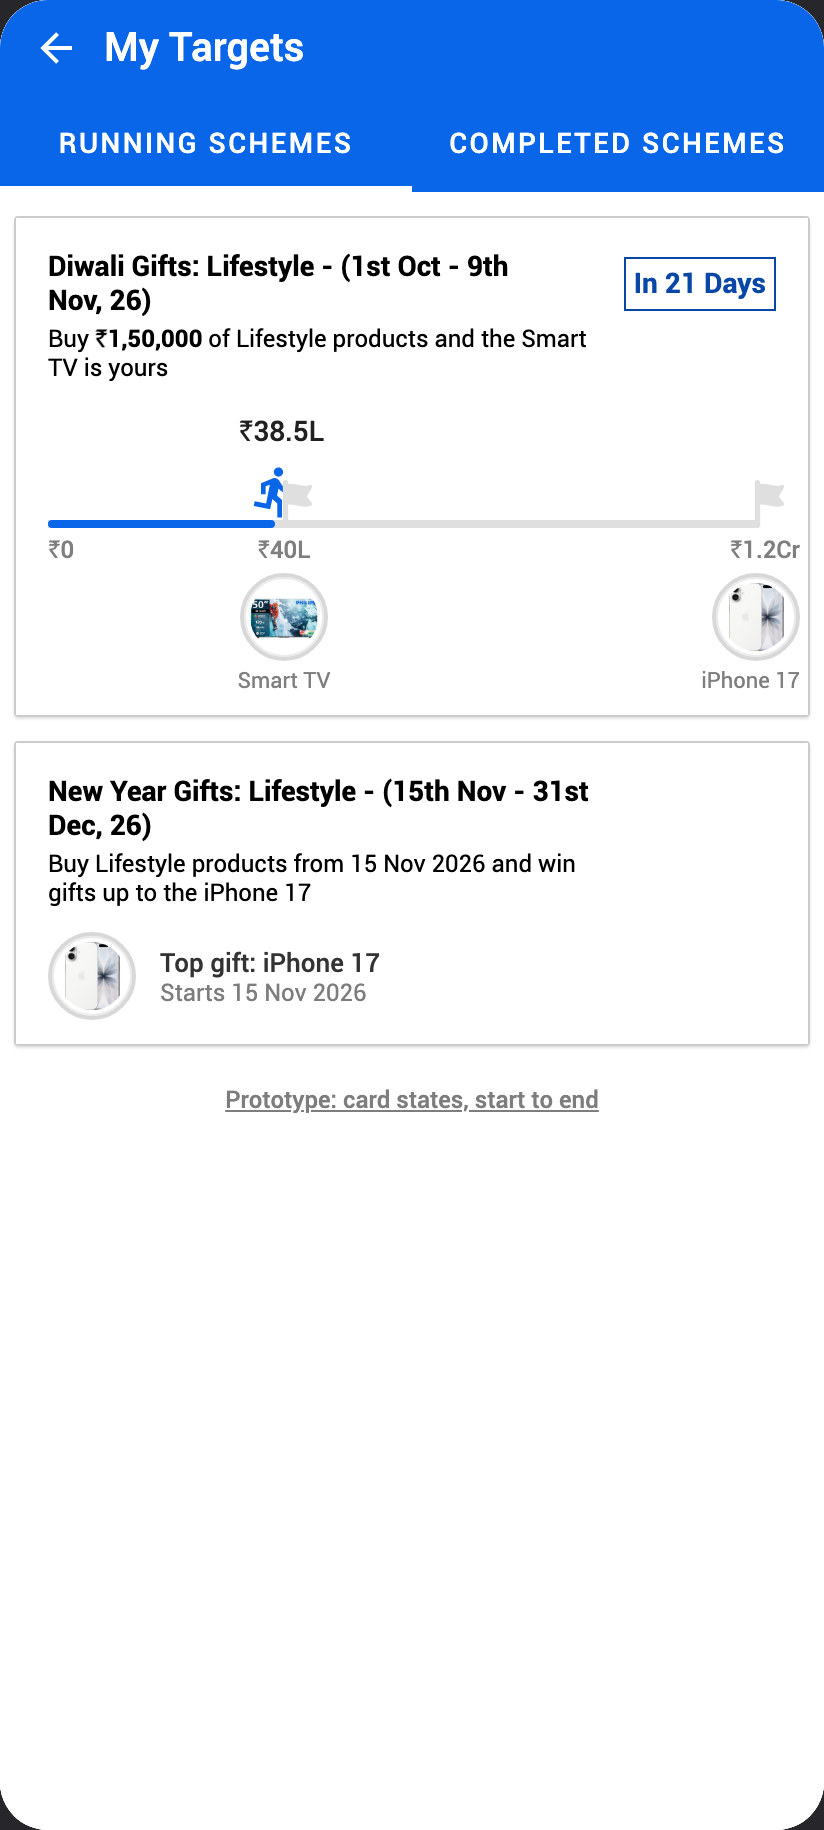
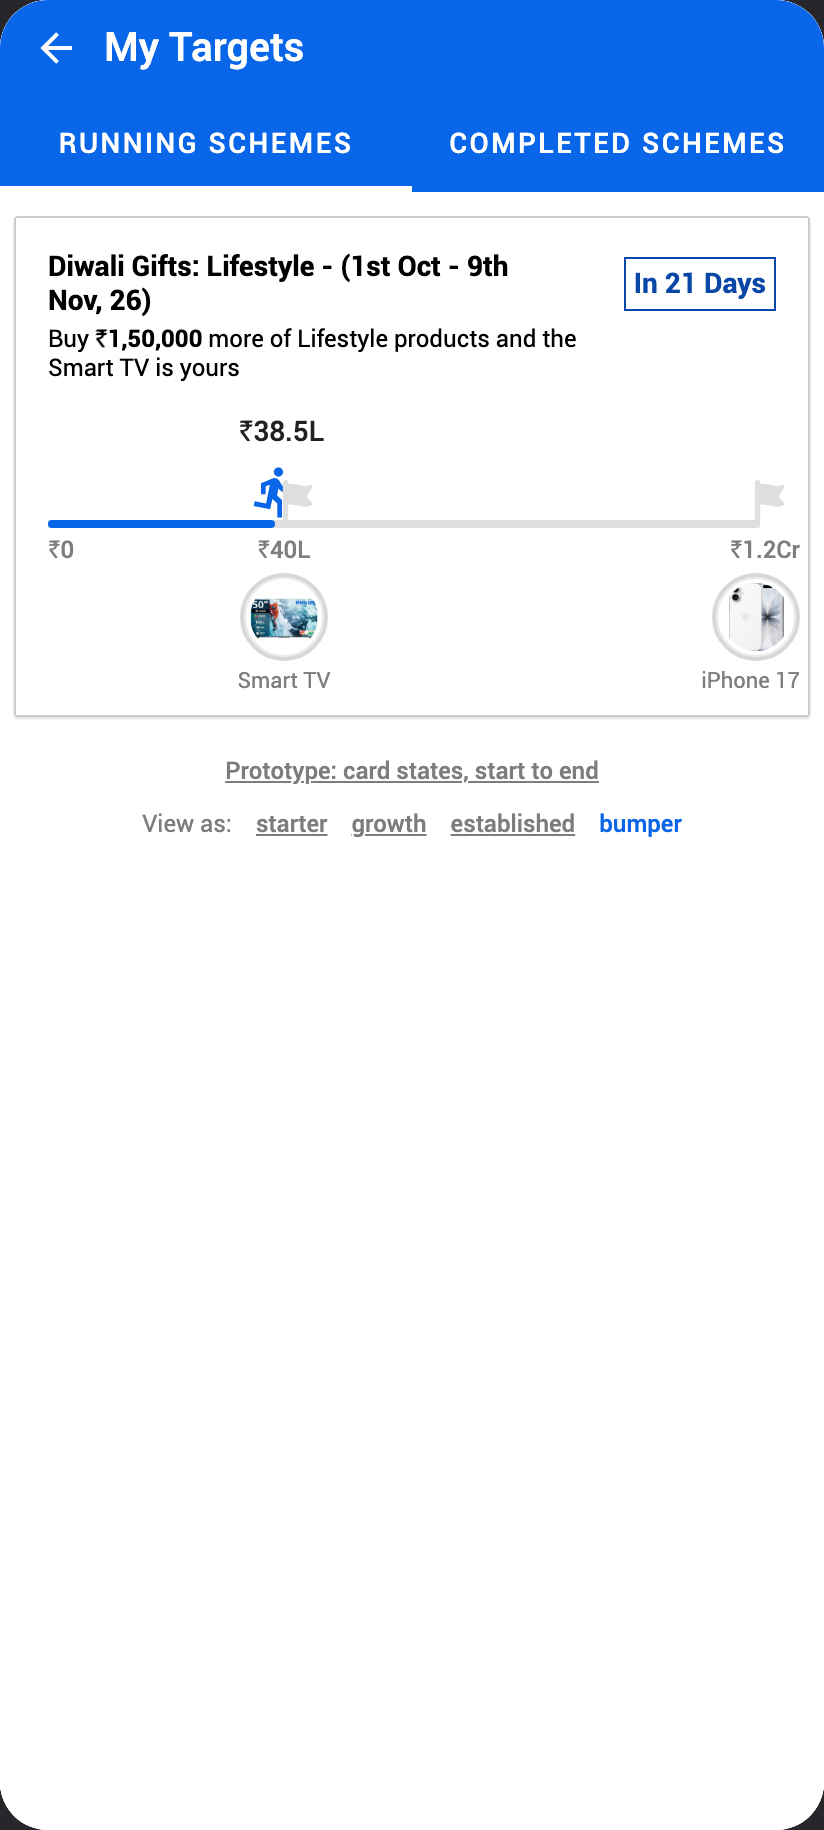
State and copy review pass; clean running lists; cohort switcher
- Reviewed all 13 gallery states and all cohort detail pages string by
  string; gallery captions now describe the single-badge design and the
  no-photo stress case uses the Bosch fridge (the kettle gained a photo)
- LIVE copy says "more" only when buying already counts toward the scheme
- The running tab holds only the running scheme: the SCHEDULED card moved
  to the states gallery, per review
- Demo chrome: "View as" cohort switcher in the prototype footer, and the
  states gallery joins the drawer

diff --git a/app/ship/states.js b/app/ship/states.js
@@ -13,7 +13,7 @@ import { giftSchemeNode, LADDERS } from '../../src/gifts/data';
 
 const L = 100000;
 const LIFESTYLE = LADDERS[0];
-const APPL = { key: 'lifestyle', label: 'Appliances', tiers: LIFESTYLE.tiers };
+const LIFE = { key: 'lifestyle', label: 'Lifestyle', tiers: LIFESTYLE.tiers };
 // The electronics ladder holds tiers without photos (kettle, watch, microwave).
 const ELEC = { key: 'electronics', label: 'Electronics', tiers: LADDERS[1].tiers };
 
@@ -22,7 +22,7 @@ const base = (id, currentValue, extra = {}) =>
     id,
     name: 'Diwali Gifts',
     windowLabel: '1st Oct - 9th Nov, 26',
-    ladder: APPL,
+    ladder: LIFE,
     slabsInLakhs: [2, 5, 10],
     currentValue,
     ...extra,
@@ -33,15 +33,15 @@ const CASES = [
     node: base('SS-SCHEDULED', 0, { now: Date.UTC(2026, 8, 20) }) },
   { caption: 'LIVE. Window open, nothing crossed. The value pill is hidden at zero.',
     node: base('SS-LIVE', 0) },
-  { caption: 'EARNED. One slab crossed: check badge on the Mixer, the rest stay locked.',
+  { caption: 'EARNED. First slab crossed: green check on the Mixer, the rest stay open.',
     node: base('SS-EARNED', 2.9 * L) },
-  { caption: 'EARNED, second slab. Two checks; the sentence sells the Soundbar.',
+  { caption: 'EARNED, second slab. One green check on the Air Fryer; the passed Mixer dims with no badge.',
     node: base('SS-EARNED2', 6.4 * L) },
   { caption: 'NEAR SLAB. Gap 20% or less of the step: the sentence turns red, the chip stays calm.',
     node: base('SS-NEAR', 9.4 * L) },
   { caption: 'EXPIRING. Three days or fewer: the chip turns red.',
     node: base('SS-EXPIRING', 6.4 * L, { now: Date.UTC(2026, 10, 7) }) },
-  { caption: 'TOP REACHED. All three checked; the man stands at the end.',
+  { caption: 'TOP REACHED. The Soundbar carries the one green check; the passed gifts dim.',
     node: base('SS-TOP', 10.5 * L) },
   { caption: 'ENDED PENDING. Closed with a slab crossed; the outcome replaces the meter.',
     node: base('SS-PENDING', 6.4 * L, { now: Date.UTC(2026, 10, 12) }) },
@@ -52,9 +52,9 @@ const CASES = [
   { caption: 'ENDED MISSED. Closed below the first slab. Terminal.',
     node: base('SS-MISSED', 0.8 * L, { now: Date.UTC(2026, 10, 12) }) },
   { caption: 'STRESS: crowded slabs (10L/15L/20L). Medallions push apart instead of overlapping.',
-    node: giftSchemeNode({ id: 'SS-CROWD', name: 'Diwali Bumper', windowLabel: '1st Oct - 9th Nov, 26', ladder: APPL, slabsInLakhs: [10, 15, 20], currentValue: 11.2 * L }) },
-  { caption: 'STRESS: a gift with no photo (kettle) falls back to its line glyph.',
-    node: giftSchemeNode({ id: 'SS-NOPHOTO', name: 'Diwali Gifts', windowLabel: '1st Oct - 9th Nov, 26', ladder: ELEC, slabsInLakhs: [1, 5, 10], currentValue: 2.2 * L }) },
+    node: giftSchemeNode({ id: 'SS-CROWD', name: 'Diwali Bumper', windowLabel: '1st Oct - 9th Nov, 26', ladder: LIFE, slabsInLakhs: [10, 15, 20], currentValue: 11.2 * L }) },
+  { caption: 'STRESS: a gift with no verified photo (the Bosch fridge) falls back to its line glyph.',
+    node: giftSchemeNode({ id: 'SS-NOPHOTO', name: 'Diwali Gifts', windowLabel: '1st Oct - 9th Nov, 26', ladder: ELEC, slabsInLakhs: [20, 30, 40], currentValue: 22 * L }) },
 ];
 
 export default function ShipCardStates() {

diff --git a/app/ship/index.js b/app/ship/index.js
@@ -53,9 +53,25 @@ export default function ShipTargets() {
           )}
           ListFooterComponent={
             withStatesLink ? (
-              <Pressable style={styles.protoLink} onPress={() => router.push('/ship/states')}>
-                <Text style={styles.protoText} allowFontScaling={false}>Prototype: card states, start to end</Text>
-              </Pressable>
+              <>
+                <Pressable style={styles.protoLink} onPress={() => router.push('/ship/states')}>
+                  <Text style={styles.protoText} allowFontScaling={false}>Prototype: card states, start to end</Text>
+                </Pressable>
+                {/* Demo chrome only: switch whose view renders. Never ships. */}
+                <View style={styles.cohortRow}>
+                  <Text style={styles.cohortLabel} allowFontScaling={false}>View as:</Text>
+                  {Object.keys(SHIP_COHORTS).map((k) => (
+                    <Pressable key={k} hitSlop={8} onPress={() => router.replace(`/ship?cohort=${k}`)}>
+                      <Text
+                        style={[styles.cohortText, k === cohort && styles.cohortActive]}
+                        allowFontScaling={false}
+                      >
+                        {k}
+                      </Text>
+                    </Pressable>
+                  ))}
+                </View>
+              </>
             ) : null
           }
         />
@@ -98,4 +114,8 @@ const styles = StyleSheet.create({
   list: { paddingHorizontal: D.listPaddingH, paddingTop: D.cardGap, paddingBottom: D.cardGap },
   protoLink: { marginTop: 20, alignItems: 'center' },
   protoText: { fontFamily: F.medium, fontSize: 12, lineHeight: 14.4, color: C.mediumGrey, textDecorationLine: 'underline' },
+  cohortRow: { flexDirection: 'row', justifyContent: 'center', alignItems: 'center', marginTop: 12, gap: 12 },
+  cohortLabel: { fontFamily: F.regular, fontSize: 12, lineHeight: 14.4, color: C.mediumGrey },
+  cohortText: { fontFamily: F.medium, fontSize: 12, lineHeight: 14.4, color: C.mediumGrey, textDecorationLine: 'underline' },
+  cohortActive: { color: SOLV.blue, textDecorationLine: 'none' },
 });

diff --git a/src/ship/data.js b/src/ship/data.js
@@ -12,10 +12,11 @@
 // slab-to-gift pricing is the sheet's, never invented here. Starter takes the
 // Electronics ladder's low end; the other three are consecutive windows of the
 // Lifestyle ladder up to the iPhone 17 (a 2-gift ladder, which the layout allows).
-// Every cohort carries the same journey: one running Diwali scheme, the announced New
-// Year scheme, and a history of one won-and-ordered plus one missed scheme. The
-// running states differ on purpose, so the four views also demo LIVE, EARNED and
-// NEAR_SLAB without inventing extra schemes.
+// Every cohort carries the same journey: ONE running Diwali scheme and a history of
+// one won-and-ordered plus one missed scheme. The running tab stays clean: a not-yet
+// started scheme never sits on it (the SCHEDULED card lives in the states gallery).
+// The running states differ across cohorts on purpose, so the four views also demo
+// LIVE and EARNED without inventing extra schemes.
 import { giftSchemeNode, LADDERS, NOW } from '../gifts/data';
 import { C } from '../theme';
 import { SOLV } from '../gifts/solv';
@@ -60,17 +61,6 @@ function cohortJourney({ key, ladder, slabs, running, onam, summer, included, ex
         name: 'Diwali Gifts',
         windowLabel: '1st Oct - 9th Nov, 26',
         currentValue: running,
-      }),
-      scheme({
-        ...shared,
-        id: `SHIP-${key}-NEWYEAR`,
-        name: 'New Year Gifts',
-        windowLabel: '15th Nov - 31st Dec, 26',
-        currentValue: 0,
-        startTime: Date.UTC(2026, 10, 15),
-        endTime: Date.UTC(2026, 11, 31),
-        startLabel: '15 Nov 2026',
-        endLabel: '31 Dec 2026',
       }),
     ],
     completed: [

diff --git a/src/gifts/data.js b/src/gifts/data.js
@@ -140,7 +140,8 @@ function copyFor(s, ladder) {
     case STATE.SCHEDULED:
       return `Buy ${scope} from ${s.startLabel} and win gifts up to the ${s.top.shortName}`;
     case STATE.LIVE:
-      return `Buy <b>${indianPrice(s.remaining)}</b> of ${scope} and the ${s.next.shortName} is yours`;
+      // "more" only once some buying already counts toward the scheme.
+      return `Buy <b>${indianPrice(s.remaining)}</b>${s.currentValue > 0 ? ' more' : ''} of ${scope} and the ${s.next.shortName} is yours`;
     case STATE.NEAR_SLAB:
       return `Only <b>${indianPrice(s.remaining)}</b> more for the ${s.next.shortName}`;
     case STATE.EARNED:

diff --git a/app/index.js b/app/index.js
@@ -52,6 +52,7 @@ const GIFT_FLOWS = [
   ['SHIP view: Growth cohort, ₹2L to ₹10L', '/ship?cohort=growth'],
   ['SHIP view: Established cohort, ₹15L to ₹30L', '/ship?cohort=established'],
   ['SHIP view: Bumper cohort, ₹40L to ₹1.2Cr', '/ship?cohort=bumper'],
+  ['SHIP: card states gallery, start to end', '/ship/states'],
   ['A. Gift scheme in the current paradigm', '/gift-targets'],
   ['B. Solv My Schemes, Mega Diwali and parallel schemes', '/solv-schemes'],
   ['C. Entry points (banner, PDP, cart, push, WhatsApp)', '/mega-diwali/entries'],

diff --git a/ship-handoff/README-HANDOFF.md b/ship-handoff/README-HANDOFF.md
@@ -114,8 +114,9 @@ emphasis is size and colour, never weight. Amounts use tabular figures.
 8. The ladder timeline is drawn from measured row centres: one continuous line,
    blue up to the gift in hand.
 9. The bar fill animates once, 600ms ease-out. Cards scale 0.98 on press.
-10. SCHEDULED: list card announces the top gift and start date (no chip, no meter);
-    detail is a catalogue with no amounts to act on.
+10. SCHEDULED: the card announces the top gift and start date (no chip, no meter);
+    a not-yet-started scheme never sits on the running list. The state renders in
+    the states gallery, and its detail is a catalogue with no amounts to act on.
 
 ## QA checklist
 
